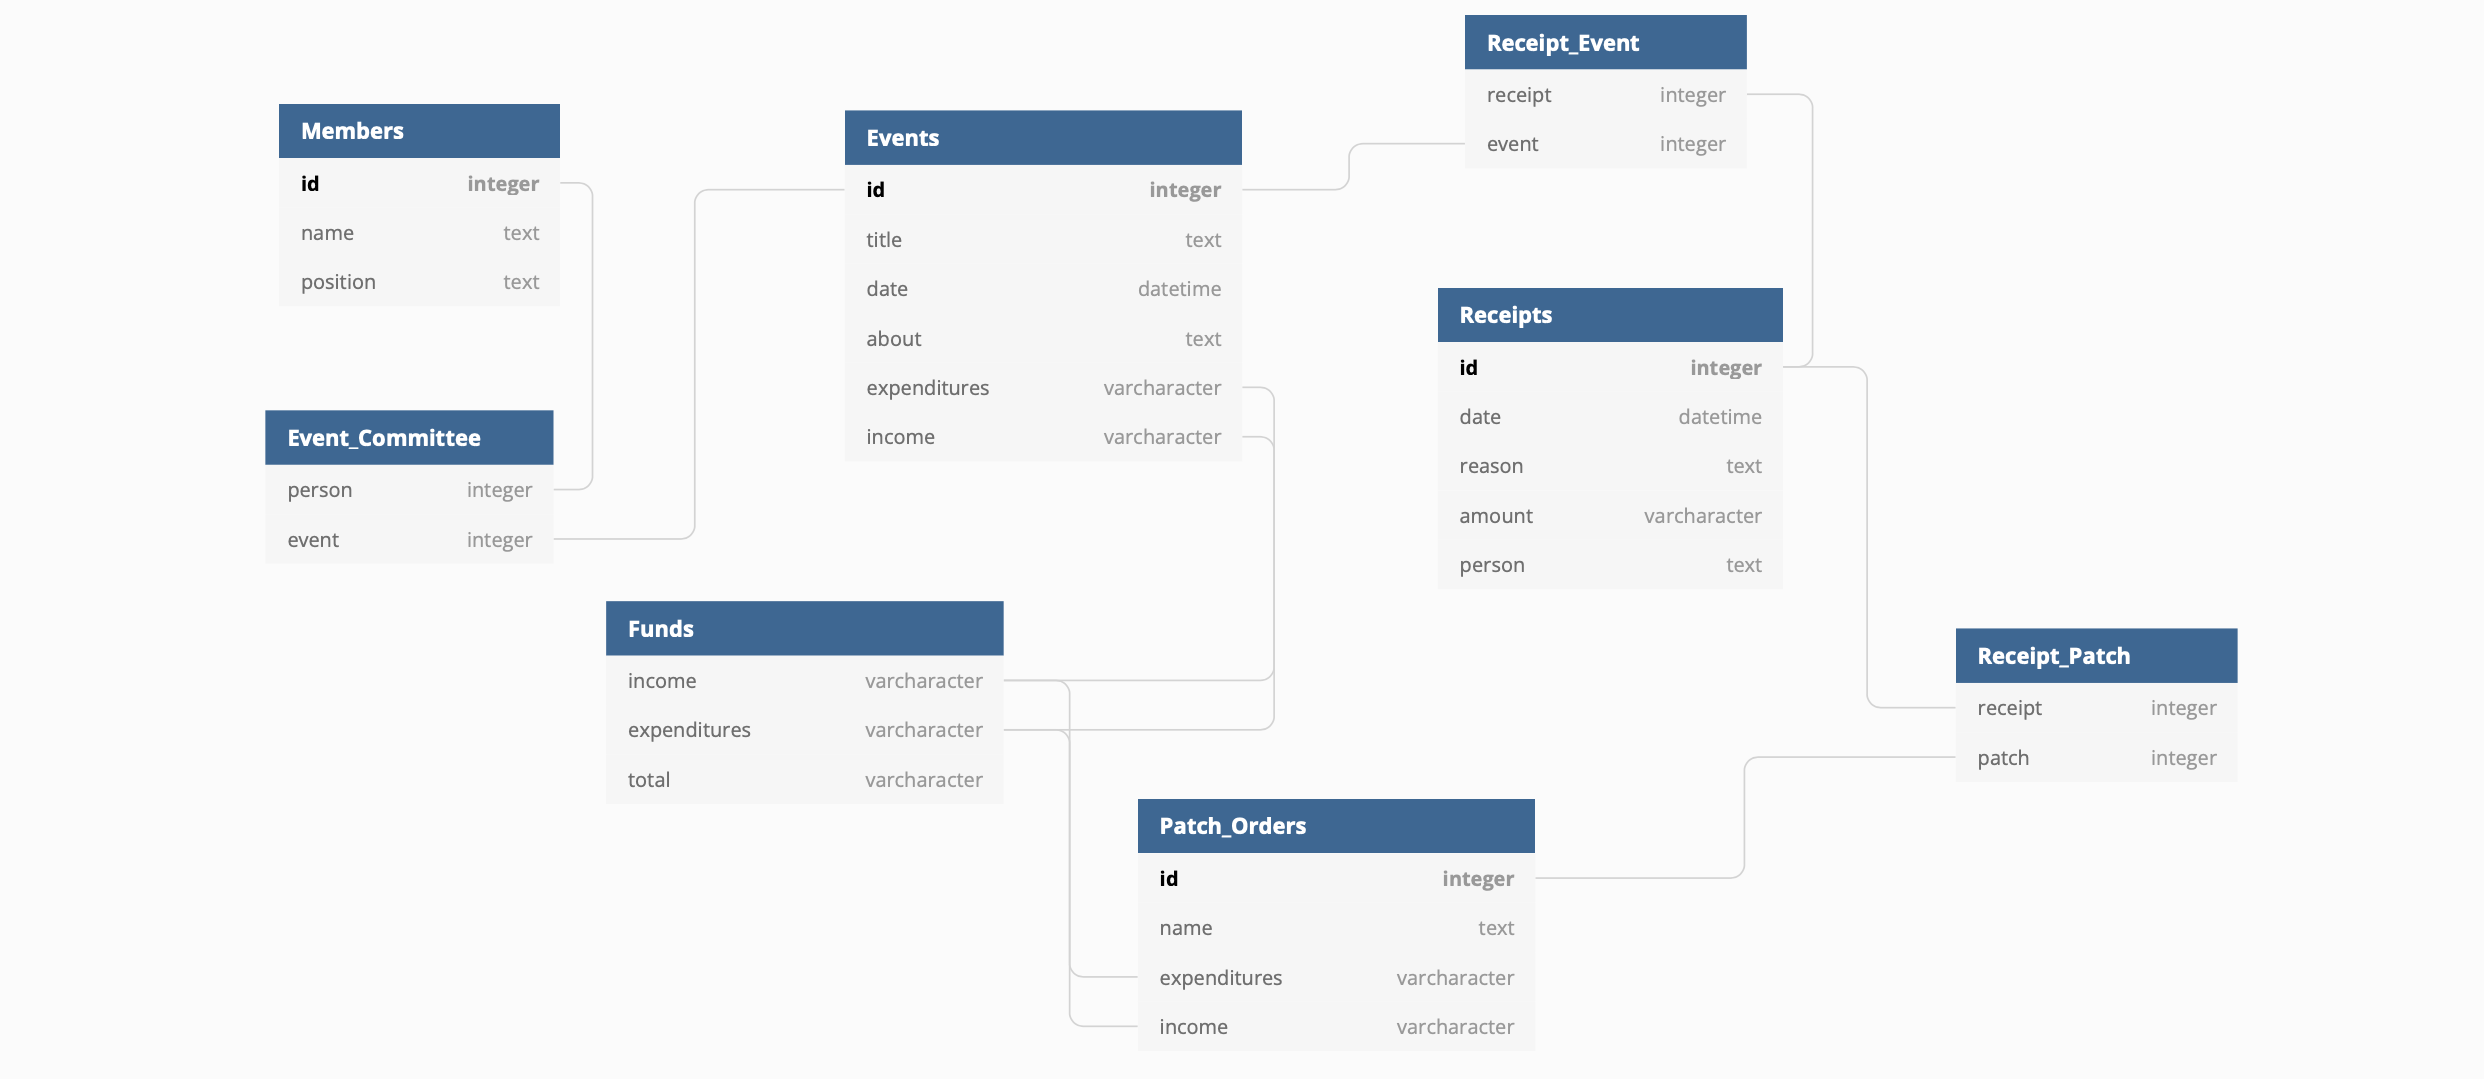
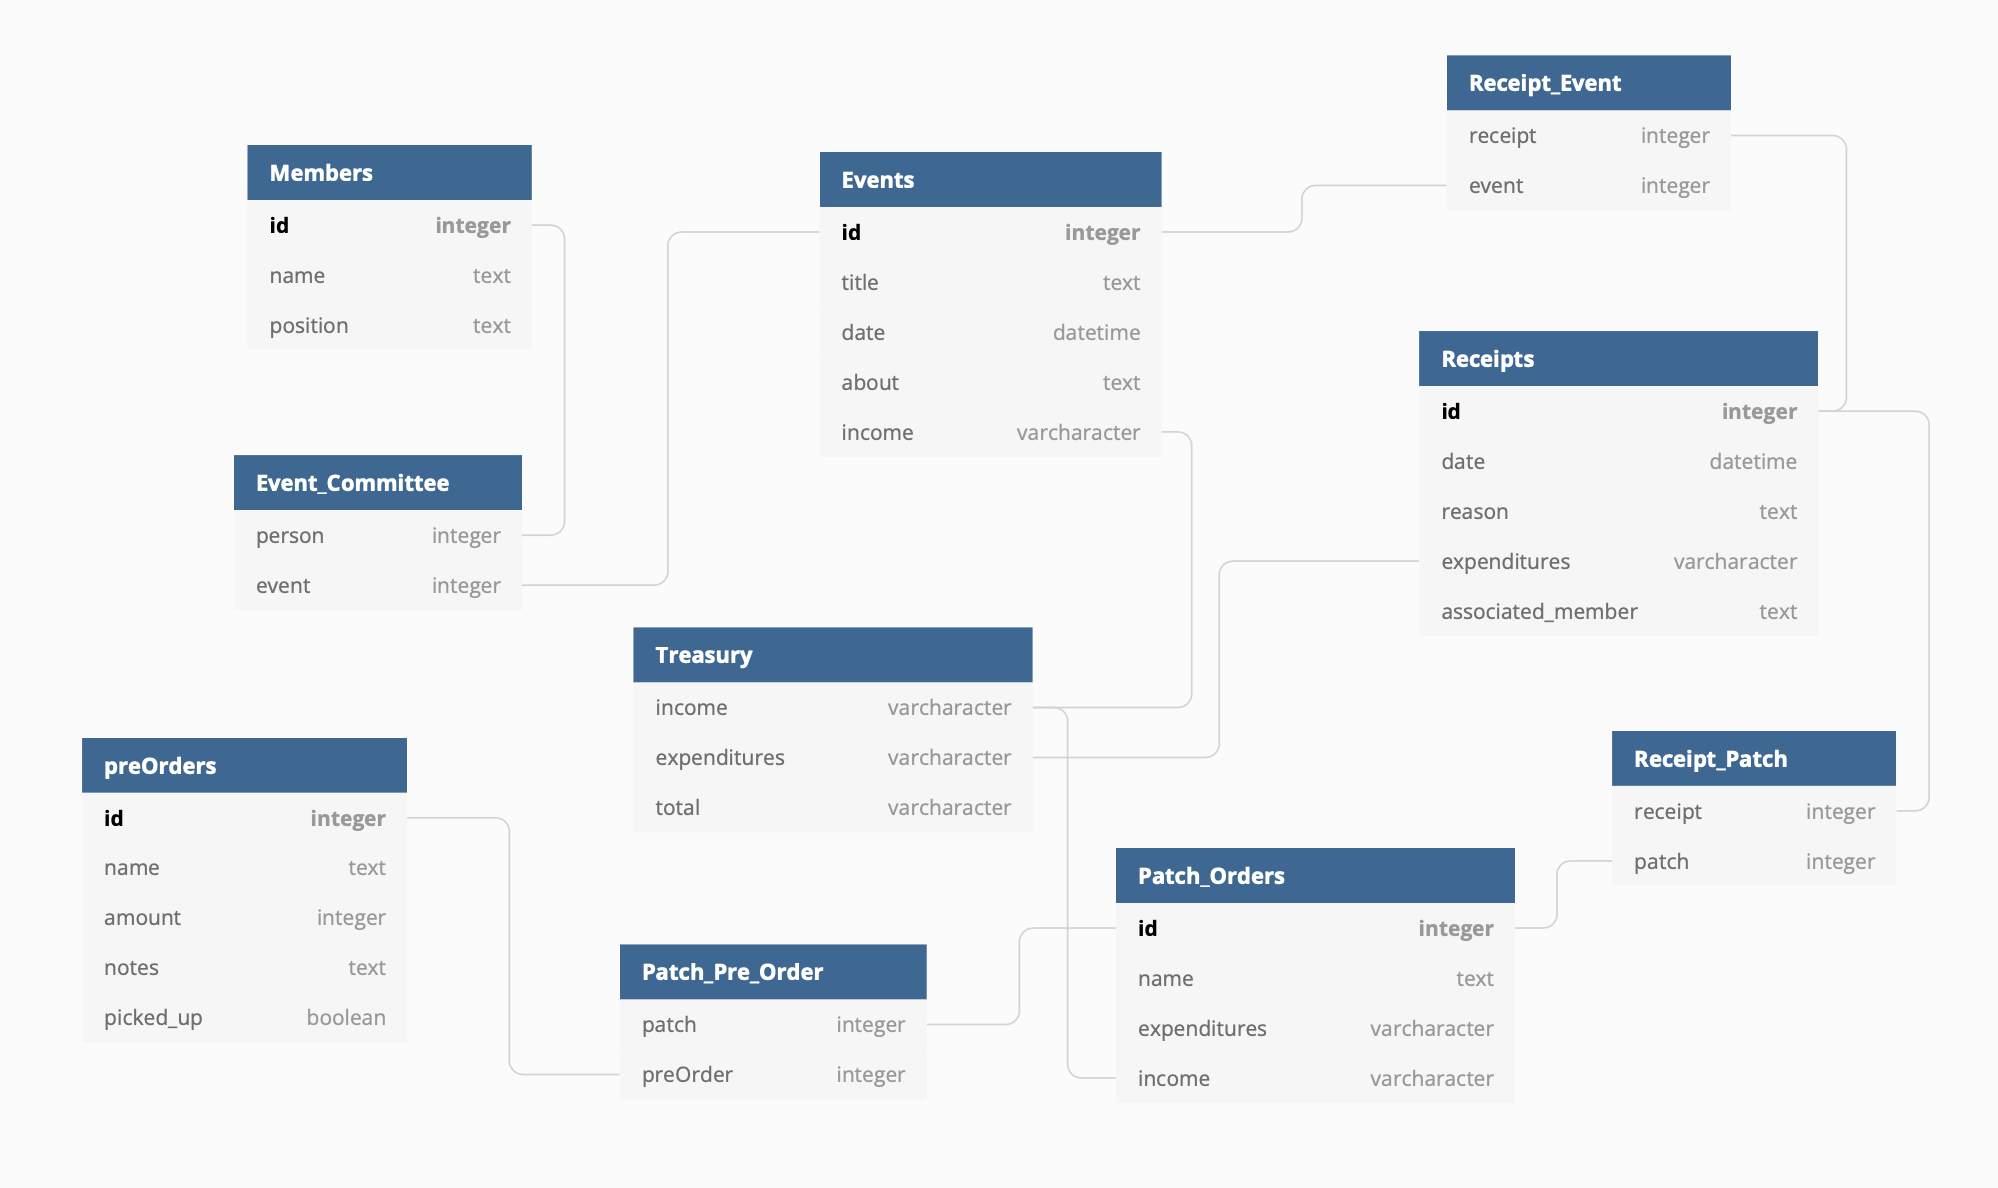
finised routes and testing for backend

diff --git a/app.js b/app.js
@@ -47,11 +47,27 @@ app.get('/1rops/money', async (req, res) => {
     res.status(200).send(result);
 });
 
+app.get('/1rops/receipts', async (req, res) => {
+    const result = await knex('receipts')
+
+    res.status(200).send(result);
+})
+
 //members routes to list members, establish new members, change a members position, and delete members
 app.get('/1rops/members', async (req, res) => {
     let response = await knex
-        .select('name', 'position')
-        .from('members');
+    .select('name', 'position')
+    .from('members');
+    
+    res.status(200).send(response);
+});
+
+app.get('/1rops/preorder', async (req, res) => {
+    let response = await knex
+        .select('po.name', 'po.amount', 'po.notes', 'po.picked_up', 'p.patchName')
+        .from('pre_orders as po')
+        .leftJoin('patch_preOrder as pp', 'pp.preOrder', '=', 'po.id')
+        .leftJoin('patches as p', 'p.id', 'pp.patch');
 
     res.status(200).send(response);
 });
@@ -87,10 +103,28 @@ app.get('/1rops/patches/:patchId', async (req, res) => {
     res.status(200).send(total);
 });
 
-app.get('/1rops/event/:eventId', async (req, res) => {
-    let patchId = parseInt(req.params.eventId);
 
-    let income = await knex('event')
+app.get('/1rops/preorder/:patchId', async (req, res) => {
+    let patchId = parseInt(req.params.patchId, 10);
+    let patchName = await knex('patches')
+        .select('patchName')
+        .where({id: patchId})
+        .then(data => data);
+    patchName = patchName[0].name;
+    let result = await knex
+        .select('name', 'amount', 'notes', 'picked_up')
+        .from('pre_orders as po')
+        .where('pp.patch', patchId)
+        .innerJoin('patch_preOrder as pp', 'pp.preOrder', '=', 'po.id')
+        .then( data => data)
+
+    res.status(200).send({patchName: patchName, preOrders: result});
+});
+
+app.get('/1rops/event/:eventId', async (req, res) => {
+    let eventId = parseInt(req.params.eventId);
+
+    let income = await knex('events')
         .select('income')
         .where({id: eventId})
         .then((data) => data);
@@ -99,7 +133,7 @@ app.get('/1rops/event/:eventId', async (req, res) => {
         .select('r.expenditures')
         .from('receipts AS r')
         .where('re.event', eventId)
-        .innerJoin('receipt_event AS rc', 'r.id', '=', 'rc.receipt')
+        .innerJoin('receipt_event AS re', 'r.id', '=', 're.receipt')
         .then((data) => data);
 
     let count = 0;
@@ -202,12 +236,14 @@ app.patch('/1rops/:eventId', async (req, res) => {
     let change = req.body;
 
     change.income 
-    ? knex('events').increment('income', change.income)
+    ? await knex('events').increment('income', change.income)
         .where({id: eventId})
         .then((data => data))
-    : await knex('events').update({
+    : await knex('events')
+        .update({
         date: change.date
-    });
+        })
+        .where({id: eventId});
 
     if(change.income){
         await knex('treasury')
@@ -242,10 +278,33 @@ app.patch('/1rops/members/:memberID', async (req, res) => {
     res.status(201).send(result);
 });
 
-app.post('/1rops/members', (req, res) => {
+app.patch('/1rops/preorder/:preOrderId', async (req, res) => {
+    let preOrderId = parseInt(req.params.preOrderId, 10);
+    let change = req.body;
+    
+    console.log(change.amount);
+    change.amount 
+    ? await knex('pre_orders').increment('amount', change.amount)
+        .where({id: preOrderId})
+        .then((data => data))
+    : await knex('pre_orders')
+        .update({
+        picked_up: change.picked_up
+        })
+        .where({id: preOrderId});
+
+    const result = await knex('pre_orders')
+        .select('name', 'amount', 'notes', 'picked_up' )
+        .where({id: preOrderId})
+        .then(data => data);
+
+    res.status(201).send(result);
+});
+
+app.post('/1rops/members', async (req, res) => {
     let newMember = req.body;
     if(newMember.name && newMember.position){
-        knex('members').insert(newMember);
+        await knex('members').insert(newMember);
         res.status(201).send(`Welcome to the 1 ROPS Booster Club ${newMember.name}!`)
     }
 });
@@ -268,7 +327,7 @@ app.post('/1rops/patches', async (req, res) => {
     const incomingInfo = req.body;
 
     const newPatch = {
-        name: incomingInfo.name,
+        patchName: incomingInfo.patchName,
         date_ordered: incomingInfo.date_ordered,
         amount_ordered: incomingInfo.amount_ordered,
         amount_sold: incomingInfo.amount_sold,
@@ -297,7 +356,7 @@ app.post('/1rops/patches', async (req, res) => {
 
     let patchId = await knex('patches')
         .select('id')
-        .where({name: newPatch.name})
+        .where({patchName: newPatch.patchName})
         .then((data) => data);
     patchId = patchId[0].id;
 
@@ -306,6 +365,26 @@ app.post('/1rops/patches', async (req, res) => {
         .then((data) => data);
 
     res.status(201).send('Patch has been successfully added to database')
+});
+
+app.post('/1rops/preorder/:patchId', async (req, res) => {
+    let patchId = parseInt(req.params.patchId, 10);
+    let newPreorder = req.body;
+
+    await knex('pre_orders')
+        .insert(newPreorder)
+        .then((data) => data);
+
+    let preOrderId = await knex('pre_orders')
+        .max('id')
+        .then((data) => data);
+    preOrderId = preOrderId[0].max
+
+    await knex('patch_preOrder')
+        .insert({patch: patchId, preOrder: preOrderId})
+        .then((data) => data);
+
+    res.status(201).send('New pre-order has been added')
 });
 
 app.post('/1rops/:event', async (req, res) => {

diff --git a/tests/app.test.js b/tests/app.test.js
@@ -59,7 +59,7 @@ describe('Booster club app\'s backend server', () => {
             .get('/1rops/members')
             .expect(200)
 
-        expect(result.body).toHaveLength(2);
+        expect(result.body).toHaveLength(3);
         expect(result.body[0]).toHaveProperty('name');
     });
 
@@ -173,7 +173,7 @@ describe('Booster club app\'s backend server', () => {
             .expect(200)
 
         expect(result.body).toHaveLength(2);
-        expect(result.body[0].name).toEqual('Crew-1');
+        expect(result.body[0].patchName).toEqual('Crew-1');
     });
 
     test('New Patch orders should be able to be created which also makes new receipt post', (done) => {
@@ -181,7 +181,7 @@ describe('Booster club app\'s backend server', () => {
             .post('/1rops/patches')
             .send(
                 {
-                    name: 'Crew-3',
+                    patchName: 'Crew-3',
                     amount_ordered: 175,
                     amount_sold: 0,
                     date_ordered: '2021-09-30',
@@ -284,9 +284,73 @@ describe('Booster club app\'s backend server', () => {
 
     test('should be able to retrieve the absolute income from an event', async () => {
         let result = await request(app)
-            .get('1/rops/event/1')
+            .get('/1rops/event/1')
             .expect(200);
 
-        expect(result.body).toEqual({total: 75});
+        expect(result.body).toEqual({total: 225});
     });
+
+    test('should be able to pull preorders for different patches', async () => {
+        let result = await request(app)
+            .get('/1rops/preorder/2')
+            .expect(200)
+
+        expect(result.body.preOrders).toHaveLength(2);
+    });
+
+    test('should be able to post new pre-order list for a patch', (done) => {
+        request(app)
+            .post('/1rops/preorder/3')
+            .send({name: 'Dave Eaton', amount: 200, notes: 'no velcro backing', picked_up: false})
+            .set('Accept', 'application/json')
+            .then((res) => {
+                expect(res.status).toBe(201)
+                expect(res.text).toBe('New pre-order has been added')
+                done();
+            })
+            .catch((err) => done(err));
+    });
+
+    test('should be able to update the amount of patches wanted by a member', (done) => {
+        request(app)
+            .patch('/1rops/preorder/3')
+            .send({amount: 50})
+            .set('Accept', 'application/json')
+            .then((res) => {
+                expect(res.status).toBe(201)
+                expect(res.body).toEqual([{
+                    name: 'Dave Eaton',
+                    amount: 250,
+                    notes: 'no velcro backing',
+                    picked_up: false
+                }])
+                done();
+            })
+            .catch((err) => done(err));
+    })
+    test('should be able to update the whether or not a member has picked up patches', (done) => {
+        request(app)
+            .patch('/1rops/preorder/3')
+            .send({picked_up: true})
+            .set('Accept', 'application/json')
+            .then((res) => {
+                expect(res.status).toBe(201)
+                expect(res.body).toEqual([{
+                    name: 'Dave Eaton',
+                    amount: 250,
+                    notes: 'no velcro backing',
+                    picked_up: true
+                }])
+                done();
+            })
+            .catch((err) => done(err));
+    });
+
+    test('should be able to pull all of the preorders within database', async () => {
+        let result = await request(app)
+            .get('/1rops/preorder')
+            .expect(200)
+
+        expect(result.body).toHaveLength(3);
+    })
 });

diff --git a/seeds/mock-data-7.js b/seeds/mock-data-7.js
@@ -5,8 +5,8 @@ exports.seed = function(knex) {
     .then(function () {
       // Inserts seed entries
       return knex('patches').insert([
-        { name: 'Crew-1', amount_ordered: 150, amount_sold: 50, date_ordered: '2021-03-22', income: 400},
-        { name: 'Crew-2', amount_ordered: 200, amount_sold: 100, date_ordered: '2021-06-16', income: 800}
+        { patchName: 'Crew-1', amount_ordered: 150, amount_sold: 50, date_ordered: '2021-03-22', income: 400},
+        { patchName: 'Crew-2', amount_ordered: 200, amount_sold: 100, date_ordered: '2021-06-16', income: 800}
       ]);
     });
 };

diff --git a/seeds/mock-data-9.js b/seeds/mock-data-9.js
@@ -1,0 +1,12 @@
+
+exports.seed = function(knex) {
+  // Deletes ALL existing entries
+  return knex('pre_orders').truncate()
+    .then(function () {
+      // Inserts seed entries
+      return knex('pre_orders').insert([
+        {name: 'Wanda Cordelli', amount: 2, notes: null, picked_up: false},
+        {name: 'John Eno', amount: 6, notes: null, picked_up: false},
+      ]);
+    });
+};

diff --git a/migrations/20211109164955_pre_orders.js b/migrations/20211109164955_pre_orders.js
@@ -1,0 +1,14 @@
+
+exports.up = function(knex) {
+  return knex.schema.createTable('pre_orders', table => {
+      table.increments('id');
+      table.text('name');
+      table.integer('amount');
+      table.text('notes');
+      table.boolean('picked_up');
+  })
+};
+
+exports.down = function(knex) {
+  return knex.schema.dropTableIfExists('pre_orders');
+};

diff --git a/seeds/mock-data-10.js b/seeds/mock-data-10.js
@@ -1,0 +1,12 @@
+
+exports.seed = function(knex) {
+  // Deletes ALL existing entries
+  return knex('patch_preOrder').del()
+    .then(function () {
+      // Inserts seed entries
+      return knex('patch_preOrder').insert([
+        {patch: 2, preOrder: 2},
+        {patch: 2, preOrder: 1}
+      ]);
+    });
+};

diff --git a/migrations/20211108003857_patches.js b/migrations/20211108003857_patches.js
@@ -2,7 +2,7 @@
 exports.up = function(knex) {
   return knex.schema.createTable('patches', table => {
       table.increments('id');
-      table.text('name');
+      table.text('patchName');
       table.integer('amount_ordered');
       table.integer('amount_sold');
       table.date('date_ordered');

diff --git a/migrations/20211109165008_patch_preOrder.js b/migrations/20211109165008_patch_preOrder.js
@@ -1,0 +1,11 @@
+
+exports.up = function(knex) {
+  return knex.schema.createTable('patch_preOrder', table => {
+      table.integer('patch');
+      table.integer('preOrder');
+  });
+};
+
+exports.down = function(knex) {
+  return knex.schema.dropTableIfExists('patch_preOrder');
+};

diff --git a/server.js b/server.js
@@ -1,6 +1,6 @@
 //placing server start in a different folder helps to lessen test interference
-const {app} = require('./app');
-const port = 3001;
+const { app } = require('./app');
+const port = 3000;
 
 app.listen(port, () => {
     console.log(`Server is running on port ${port}`)

diff --git a/knexfile.js b/knexfile.js
@@ -5,7 +5,7 @@ module.exports = {
 
   development: {
     client: 'pg',
-    connection: 'postgres://postgres:docker@localhost/booster-club'
+    connection: 'postgres://postgres:docker@localhost/booster_club'
   },
 
   staging: {

diff --git a/README.md b/README.md
@@ -14,14 +14,19 @@ With a database, the 1 ROPS booster club will be able to keep track of income an
 * GET /1rops/money: will retrieve total amount of money the booster club has.
 * GET /1rops/event/{eventId}: will let you retrieve net income for an event.
 * GET /1rops/patches/{patchId}: will let you retrieve net income for a patch.
+* GET /1rops/preorder: will grab all of the preOrders in database.
+* GET /1rops/receipts: will grab all of the receipts within the database.
+* GET /1rops/preorder/{patchId}: will grab all pre-orders correlating to a specific patch.
 * PATCH /1rops/{event}: will update date or income based off of input.
 * PATCH /1rops/members/{memberId}: will allow you to change member position.
 * PATCH /1rops/patches/{patchId}: will allow you to update amount of patches sold and amount made for each patch.
 * PATCH /1rops/reorder/{patchId}: will allow you to update number of patches order for a patch and will input new receipt as well as update treasury.
+* PATCH /1rops/preorder/{pre-orderId}: will allow you to update whether or not patches have been picked up or update the desired amount of patches.
 * POST /1rops: will let you post new events, this route will also update treasury.
 * POST /1rops/{event}: will allow you to post new receipts for events with reason, expenditures, and associated_member parameters.
 * POST /1rops/members: will allow you to register new member with name and position parameters.
 * POST /1rops/patches: will allow you to add new patch orders and receipts for orders.
+* POST /1rops/preorder: will allow you to add a new pre-order into the system.
 * DELETE /1rops/members/{memberId}: will allow you to delete member from booster club.
 
 ## Leaning Tool
